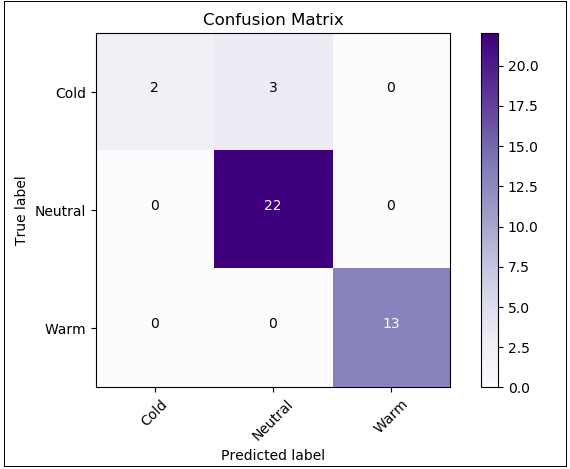
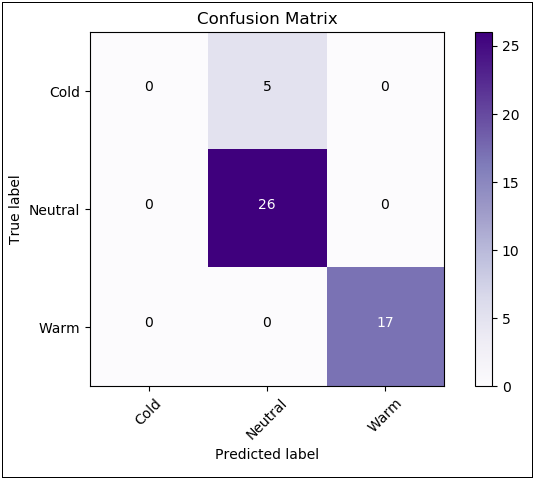
Update knn

diff --git a/src/knn-algorithm-classifier.py b/src/knn-algorithm-classifier.py
@@ -15,12 +15,12 @@ statistics.plot_statistics(data_set_processed['classes_name'], data_set_processe
 
 def train_knn_algorithm(temps, all_labels, classes):
     train_temperatures, test_temperatures, train_labels, test_labels = train_test_split(temps, all_labels,
-                                                                                        test_size=0.25,
+                                                                                        test_size=0.30,
                                                                                         random_state=25)
     train_temperatures = train_temperatures.reshape(-1, 1)
     test_temperatures = test_temperatures.reshape(-1, 1)
     # create knn algorithm
-    knn_algorithm_classifier = KNeighborsClassifier(n_neighbors=3)
+    knn_algorithm_classifier = KNeighborsClassifier(n_neighbors=9)
 
     # fit and serialize the algorithm knn
     trained_svm = knn_algorithm_classifier.fit(np.array(train_temperatures), train_labels)

diff --git a/src/tests.py b/src/tests.py
@@ -14,12 +14,12 @@ def __format_result(result):
 
 trained_svm = pickle.load(open("trained-svm-algorithm.p", "rb"))
 temp = [[10]]
-result_svm = re.sub('[^0-9]', '', str(trained_svm.predict(temp)))
+result_svm = re.sub('[^0-9-]', '', str(trained_svm.predict(temp)))
 result_svm_name = __format_result(result_svm)
 print("For temperature: " + str(temp[0][0]) + " the SVM algorithm classified it as a " + result_svm_name + " temperature")
 
 trained_knn = pickle.load(open("trained-knn-algorithm.p", "rb"))
 temp = [[10]]
-result_knn = re.sub('[^0-9]', '', str(trained_knn.predict(temp)))
+result_knn = re.sub('[^0-9-]', '', str(trained_knn.predict(temp)))
 result_knn_name = __format_result(result_knn)
-print("For temperature: " + str(temp[0][0]) + " the KNN algorithm classified it as a " + result_svm_name + " temperature")
+print("For temperature: " + str(temp[0][0]) + " the KNN algorithm classified it as a " + result_knn_name + " temperature")

diff --git a/README.md b/README.md
@@ -2,26 +2,27 @@
 Foi utilizado um data-set com 157 temperaturas coletadas da cidade de Campinas (SP) do período de 01/06/2018 até 04/11/2018.
 As temperaturas maiores ou iguais a 22ºC e maior foram classificadas como temperaturas quentes, já as temperaturas entre 16ºC e 22ºC foram classificadas como neutras, e por último temperaturas abaixo de 16ºC foram classificadas como frias.
 
-## Update pip
-.\venv\Scripts\python.exe -m pip install --upgrade pip --force-reinstall
-
-## Update requirements
-.\venv\Scripts\pip.exe freeze > requirements.txt
-
-## Install requirements
-.\venv\Scripts\pip3.6.exe install -r  requirements.txt
-
 ## Dados utilizados para treinar o algoritmo
 ![Dados utilizados para treinar o algoritmo](./src/resources/images/data-set.PNG)
 
 ## Confusion Matrix Knn algorithm
-* Acuracidade: 92,5%
-* Base de validação do agente: ~25% do data-set
-
+* Acurácia: 89%
+* Base de validação do agente: ~30% do data-set
+* Neighbors: 9
 ![Confusion Matrix KNN algorithm](./src/resources/images/confusion-matrix-knn.PNG)
 
 ## Confusion Matrix svm algorithm
-* Acuracidade: 92,5%
+* Acurácia: 92,5%
 * Base de validação do agente: ~25% do data-set
 
 ![Confusion Matrix SVM algorithm](./src/resources/images/confusion-matrix-svm.PNG)
+
+## Instalação de ambiente
+### Update pip
+.\venv\Scripts\python.exe -m pip install --upgrade pip --force-reinstall
+
+### Update requirements
+.\venv\Scripts\pip.exe freeze > requirements.txt
+
+### Install requirements
+.\venv\Scripts\pip3.6.exe install -r  requirements.txt
